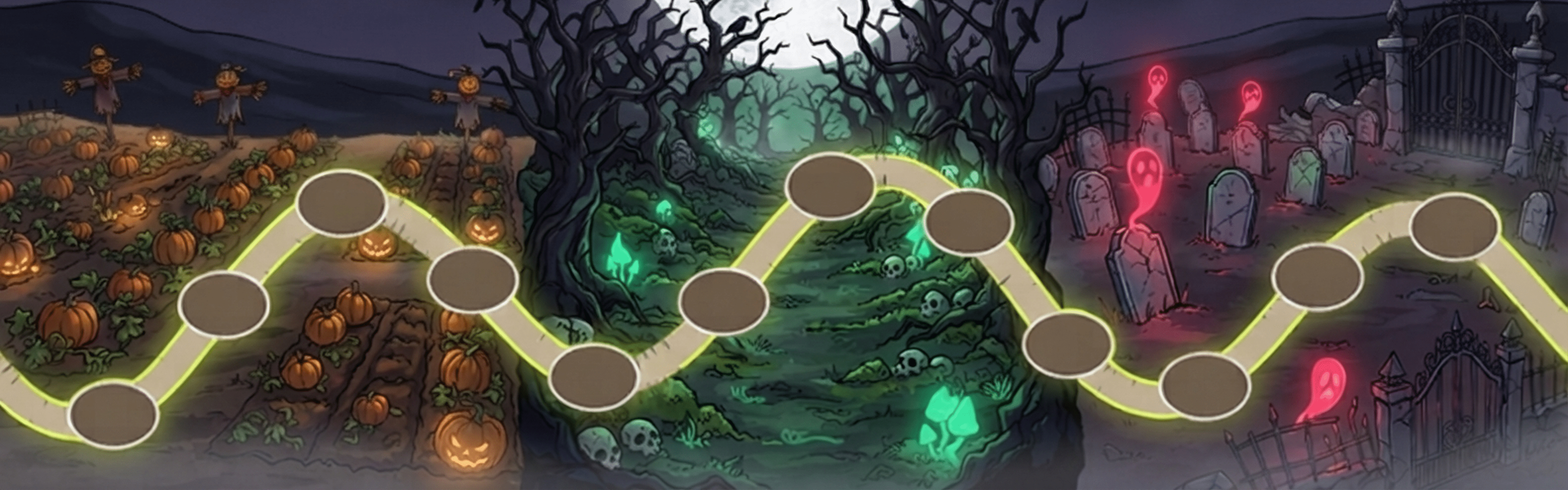
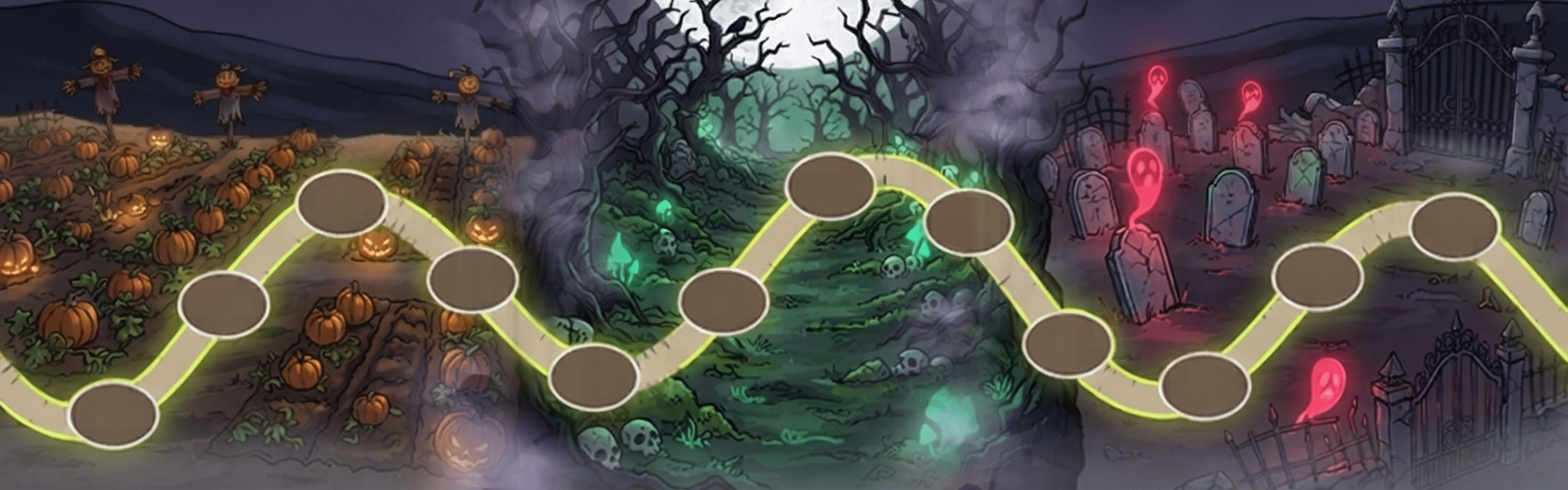
halloween: export approved map zone states as finals
hw26-map-{d,m}-zone1 / zone12 / zone123, and hw26-map-{d,m} replaced by
the seam-fixed full map. Plain maps kept as the shroud script's inputs
(variants/round3/map_zones/base); hw_export writes its map output there
so re-running doesn't overwrite the finals.

Claude-Session: https://claude.ai/code/session_013HbFSBnr4hEbWxBe4vtSbq

diff --git a/tools/hw_zone_shroud.py b/tools/hw_zone_shroud.py
@@ -22,6 +22,9 @@ from PIL import Image, ImageFilter
 
 ROOT = os.path.dirname(os.path.dirname(os.path.abspath(__file__)))
 FINAL = os.path.join(ROOT, "halloween", "final", "halloween-2026", "map")
+# Plain maps (before the seam fix) that the shroud is built on. The files in FINAL are
+# replaced by the seam-fixed versions, so the inputs are kept here.
+BASE = os.path.join(ROOT, "halloween", "variants", "round3", "map_zones", "base")
 HAZE = np.array([66, 60, 88], dtype=np.float32) / 255
 
 # seam positions along the trail axis, measured from column/row colour steps (export px)
@@ -205,7 +208,7 @@ def main():
     lots = json.load(open(os.path.join(FINAL, "hw26-map-lots.json")))
     for kind, fn, tag in (("desktop", "hw26-map-d.png", "d"), ("mobile", "hw26-map-m.png", "m")):
         for open_zones, name in ((1, "zone1"), (2, "zone12"), (3, "zone123")):
-            out = build(kind, os.path.join(FINAL, fn), lots[kind]["lots"], open_zones, seed=26)
+            out = build(kind, os.path.join(BASE, fn), lots[kind]["lots"], open_zones, seed=26)
             dst = os.path.join(a.out_dir, f"hw26-map-{tag}-{name}.png")
             out.save(dst)
             print("wrote", dst, out.size)

diff --git a/tools/hw_export.py b/tools/hw_export.py
@@ -106,8 +106,14 @@ def seamless(im, axis="xy", overlap=0.2):
     return out.resize(size, Image.LANCZOS)
 
 
+# The plain maps are inputs to tools/hw_zone_shroud.py, which writes the final map files
+# (seam-fixed hw26-map-{d,m}.png plus the zone1 / zone12 / zone123 variants).
+MAP_BASE = os.path.join(HW, "variants", "round3", "map_zones", "base")
+
+
 def save(im, rel, quality=(65, 92), dither=1.0):
-    dst = os.path.join(OUT, rel)
+    dst = (os.path.join(MAP_BASE, os.path.basename(rel)) if rel.startswith("map/hw26-map-")
+           else os.path.join(OUT, rel))
     os.makedirs(os.path.dirname(dst), exist_ok=True)
     rgba = im.convert("RGBA")
     try:

diff --git a/halloween/docs/03-round2-and-exports.md b/halloween/docs/03-round2-and-exports.md
@@ -45,3 +45,18 @@ leftover flat blocks (desktop sky, mobile zone seams).
 | `shop/hw26-shop.png` (1600×600, opaque) | Shop header A | `variants/round2/shop/A`, left 55% kept dark for the title and Candy balance |
 
 **All 36 spec PNGs are delivered** in `final/halloween-2026/`, plus `map/hw26-map-lots.json`.
+
+## Map zone states (approved)
+
+| File | Shows |
+|---|---|
+| `map/hw26-map-{d,m}-zone1.png` | Zone 1 open (Oct 13); Zones 2–3 under the shroud |
+| `map/hw26-map-{d,m}-zone12.png` | Zones 1–2 open (Oct 20); Zone 3 under the shroud |
+| `map/hw26-map-{d,m}-zone123.png` | All zones open (Oct 27) |
+| `map/hw26-map-{d,m}.png` | Same as zone123 (the spec's single map file), now seam-fixed |
+
+Made by `tools/hw_zone_shroud.py` (no generation): a dense lilac-grey shroud built from the approved fog, with a
+billowing, wandering edge and faint tendrils; open lots always clear. The painted zone seams are melted
+(colour-step correction, wandering cross-blend that skips the trail, soft mist bank). Inputs are the plain maps in
+`variants/round3/map_zones/base/`; `tools/hw_export.py` writes its map output there, so re-running both
+scripts reproduces the finals.
